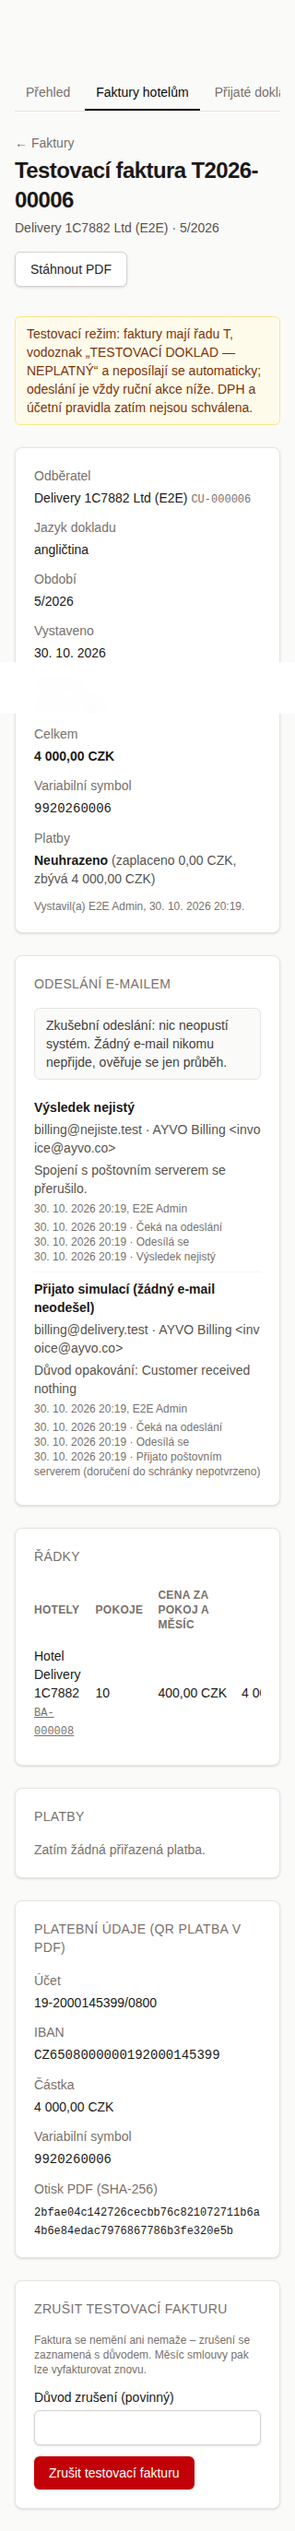
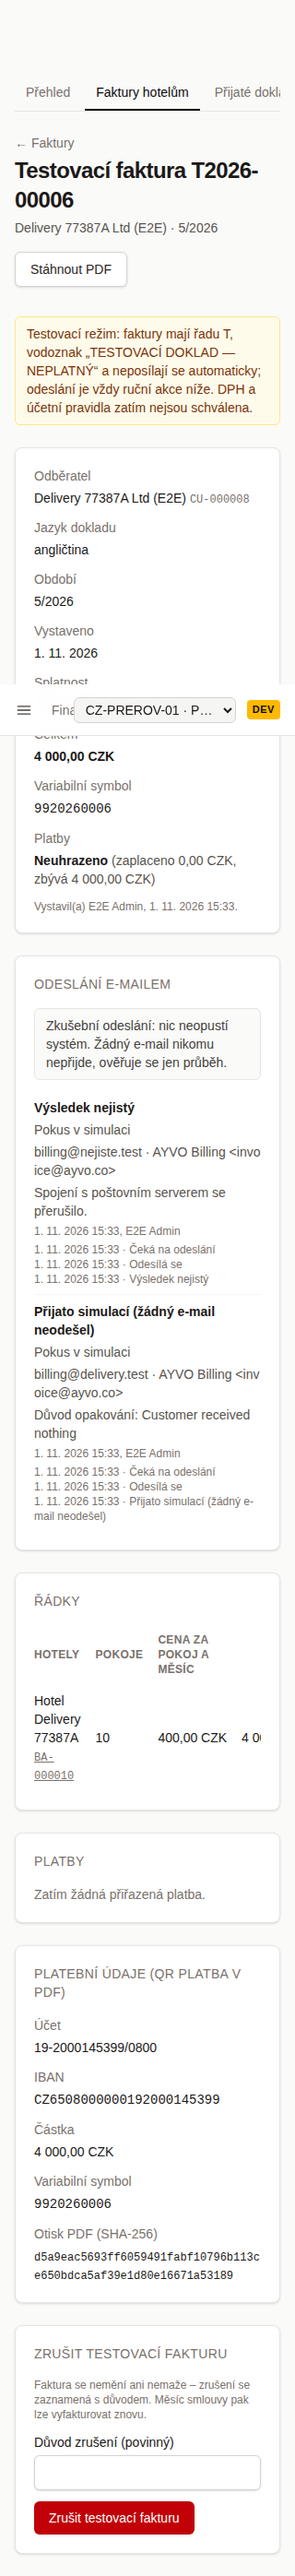
fix(web): an attempt's result reads by its stored mode, not today's configuration (MAIL104-R1)
The panel, the attempt's history and the invoice list took "simulated" from the server's current
mode, so a simulated SENT read as accepted by the mail server after a switch to the relay, and the
reverse. Each now reads the mode stored on the attempt; the current mode only says what a new
attempt would do. Screenshots renewed.

diff --git a/apps/web/src/components/finance/invoice-delivery.tsx b/apps/web/src/components/finance/invoice-delivery.tsx
@@ -18,12 +18,13 @@ const message = (e: unknown) =>
       : String(e);
 
 /** One attempt: its state in words (never "doručeno"), its code and history. */
-function Attempt({ d, simulated }: { d: InvoiceDelivery; simulated: boolean }) {
+function Attempt({ d }: { d: InvoiceDelivery }) {
   return (
     <li className="flex flex-col gap-1 py-2" data-testid={`delivery-${d.state}`}>
-      <strong data-testid="delivery-state">
-        {(simulated && t.stateSimulated[d.state]) || t.state[d.state]}
-      </strong>
+      <strong data-testid="delivery-state">{t.stateOf(d.mode, d.state)}</strong>
+      <span className="text-stone-600" data-testid={`delivery-attempt-mode-${d.mode}`}>
+        {t.attemptMode[d.mode]}
+      </span>
       <span className="break-all text-stone-600">
         {d.recipient} · {d.sender}
       </span>
@@ -39,7 +40,7 @@ function Attempt({ d, simulated }: { d: InvoiceDelivery; simulated: boolean }) {
       <ul className="text-xs text-stone-500" data-testid="delivery-events">
         {d.events.map((e, i) => (
           <li key={i}>
-            {formatDateTimeCs(e.occurredAt)} · {t.state[e.state]}
+            {formatDateTimeCs(e.occurredAt)} · {t.stateOf(d.mode, e.state)}
           </li>
         ))}
       </ul>
@@ -100,7 +101,7 @@ export function InvoiceDeliveryPanel({
       )}
       {data.blocker && <Notice tone="info">{t.blockers[data.blocker]}</Notice>}
       {latest?.state === 'UNCERTAIN' && <Notice tone="warning">{t.uncertainHelp}</Notice>}
-      {latest?.state === 'SENT' && data.mode !== 'SIMULATION' && (
+      {latest?.state === 'SENT' && latest.mode === 'RELAY' && (
         <p className="text-stone-600">{t.sentHelp}</p>
       )}
       {data.deliveries.length === 0 ? (
@@ -108,7 +109,7 @@ export function InvoiceDeliveryPanel({
       ) : (
         <ul className="divide-y divide-stone-100">
           {data.deliveries.map((d) => (
-            <Attempt key={d.id} d={d} simulated={data.mode === 'SIMULATION'} />
+            <Attempt key={d.id} d={d} />
           ))}
         </ul>
       )}

diff --git a/apps/web/src/i18n/cs/finance-delivery.test.ts b/apps/web/src/i18n/cs/finance-delivery.test.ts
@@ -1,0 +1,19 @@
+import { describe, expect, it } from 'vitest';
+import { financeCs } from './finance';
+
+const { stateOf } = financeCs.invoices.delivery;
+
+describe("what an attempt's result says follows the attempt, not the server", () => {
+  it('a simulated attempt never reads as accepted by a mail server', () => {
+    expect(stateOf('SIMULATION', 'SENT')).toContain('žádný e-mail neodešel');
+    expect(stateOf('SIMULATION', 'SENT')).not.toContain('poštovním serverem');
+  });
+  it('an attempt through the relay stays accepted by the server, whatever the server does today', () => {
+    expect(stateOf('RELAY', 'SENT')).toContain('Přijato poštovním serverem');
+    expect(stateOf('RELAY', 'SENT')).not.toContain('simulac');
+  });
+  it('other states read the same in both modes', () => {
+    for (const state of ['QUEUED', 'SENDING', 'FAILED', 'UNCERTAIN'])
+      expect(stateOf('SIMULATION', state)).toBe(stateOf('RELAY', state));
+  });
+});

diff --git a/apps/web/src/i18n/cs/finance.ts b/apps/web/src/i18n/cs/finance.ts
@@ -295,8 +295,15 @@ export const financeCs = {
         RELAY:
           'Skutečný testovací e-mail přes poštovní server, jen na povolenou adresu. Doklad je označený jako testovací.',
       } as Record<string, string>,
-      stateSimulated: {
-        SENT: 'Přijato simulací (žádný e-mail neodešel)',
+      /** What this attempt's result means, by the mode stored on it, never by today's. */
+      stateOf(mode: string, state: string): string {
+        return mode === 'SIMULATION' && state === 'SENT'
+          ? 'Přijato simulací (žádný e-mail neodešel)'
+          : (financeCs.invoices.delivery.state[state] ?? state);
+      },
+      attemptMode: {
+        SIMULATION: 'Pokus v simulaci',
+        RELAY: 'Pokus přes poštovní server',
       } as Record<string, string>,
       none: 'Faktura zatím nebyla odeslána.',
       send: 'Odeslat fakturu',

diff --git a/apps/web/src/components/finance/invoice-list.tsx b/apps/web/src/components/finance/invoice-list.tsx
@@ -37,7 +37,7 @@ export function InvoiceList({ invoices }: { invoices: readonly InvoiceSummary[] 
           </span>
           {i.deliveryState && (
             <span className="text-stone-600" data-testid={`invoice-delivery-${i.number}`}>
-              {t.delivery.state[i.deliveryState]}
+              {t.delivery.stateOf(i.deliveryMode ?? 'RELAY', i.deliveryState)}
             </span>
           )}
         </li>

diff --git a/apps/web/e2e/workflow-finance-language.spec.ts b/apps/web/e2e/workflow-finance-language.spec.ts
@@ -300,6 +300,8 @@ test.describe('Jazyk dokumentů', () => {
     await shots(page, 'finance-delivery-sent');
 
     await page.goto('/finance/invoices');
-    await expect(page.getByTestId(`invoice-delivery-${invoice.number}`)).toBeVisible();
+    await expect(page.getByTestId(`invoice-delivery-${invoice.number}`)).toContainText(
+      'Přijato simulací',
+    );
   });
 });
